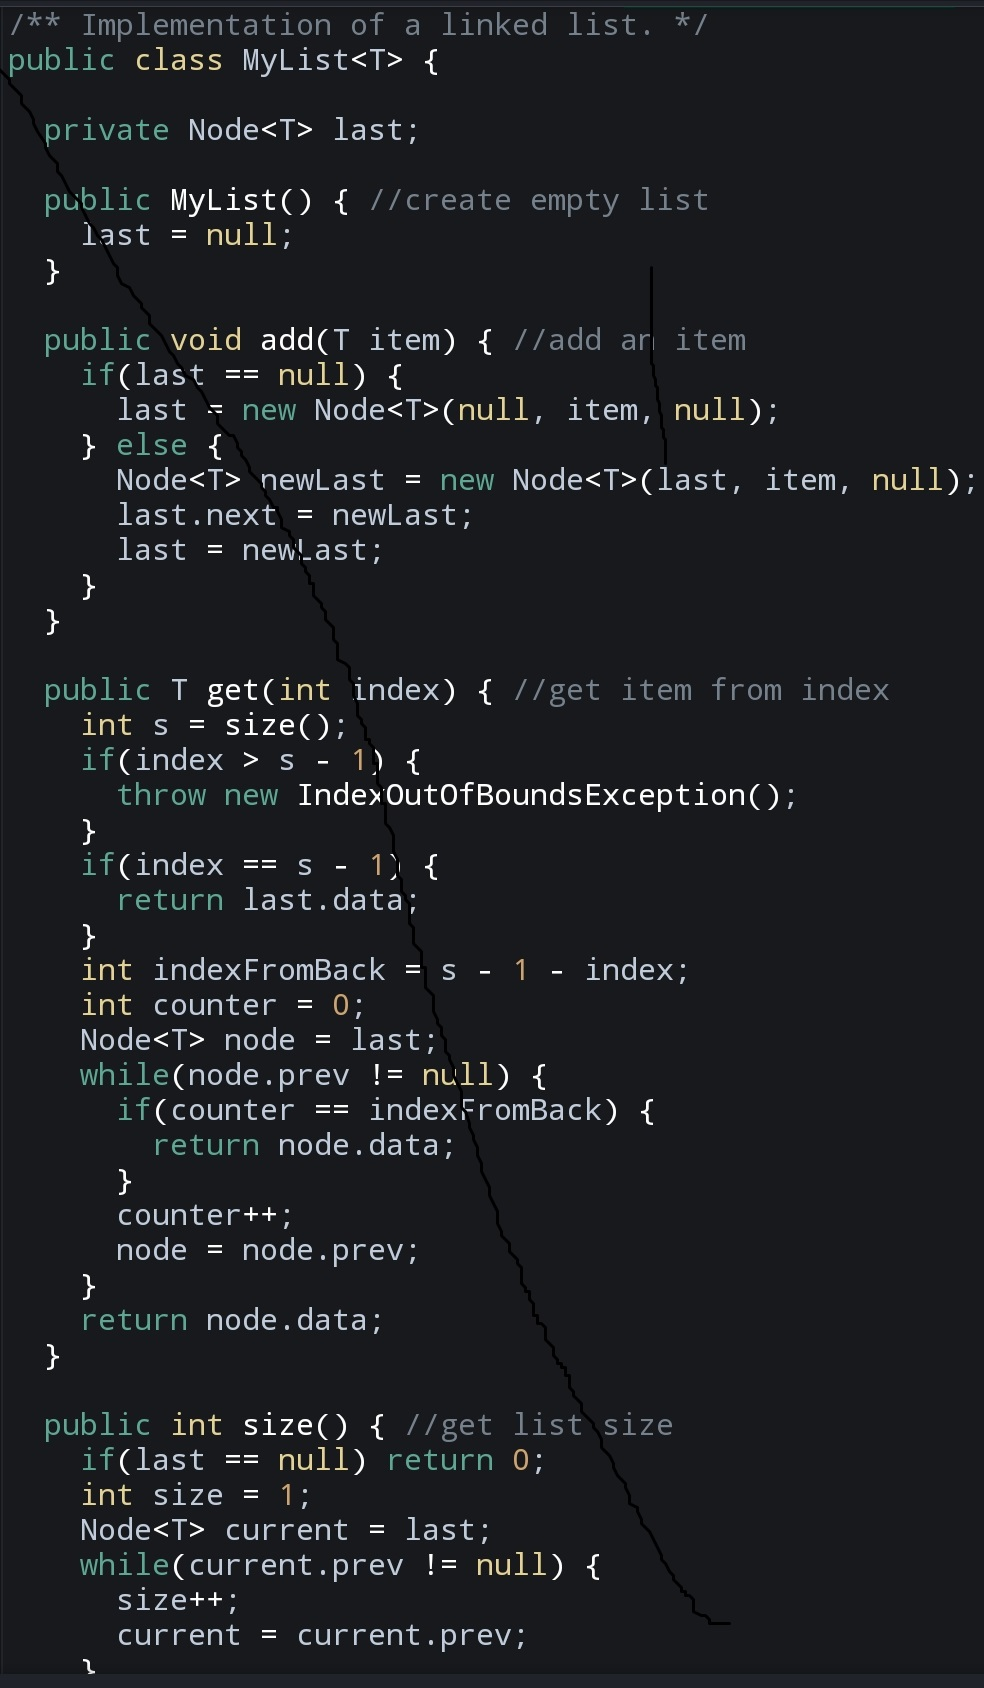
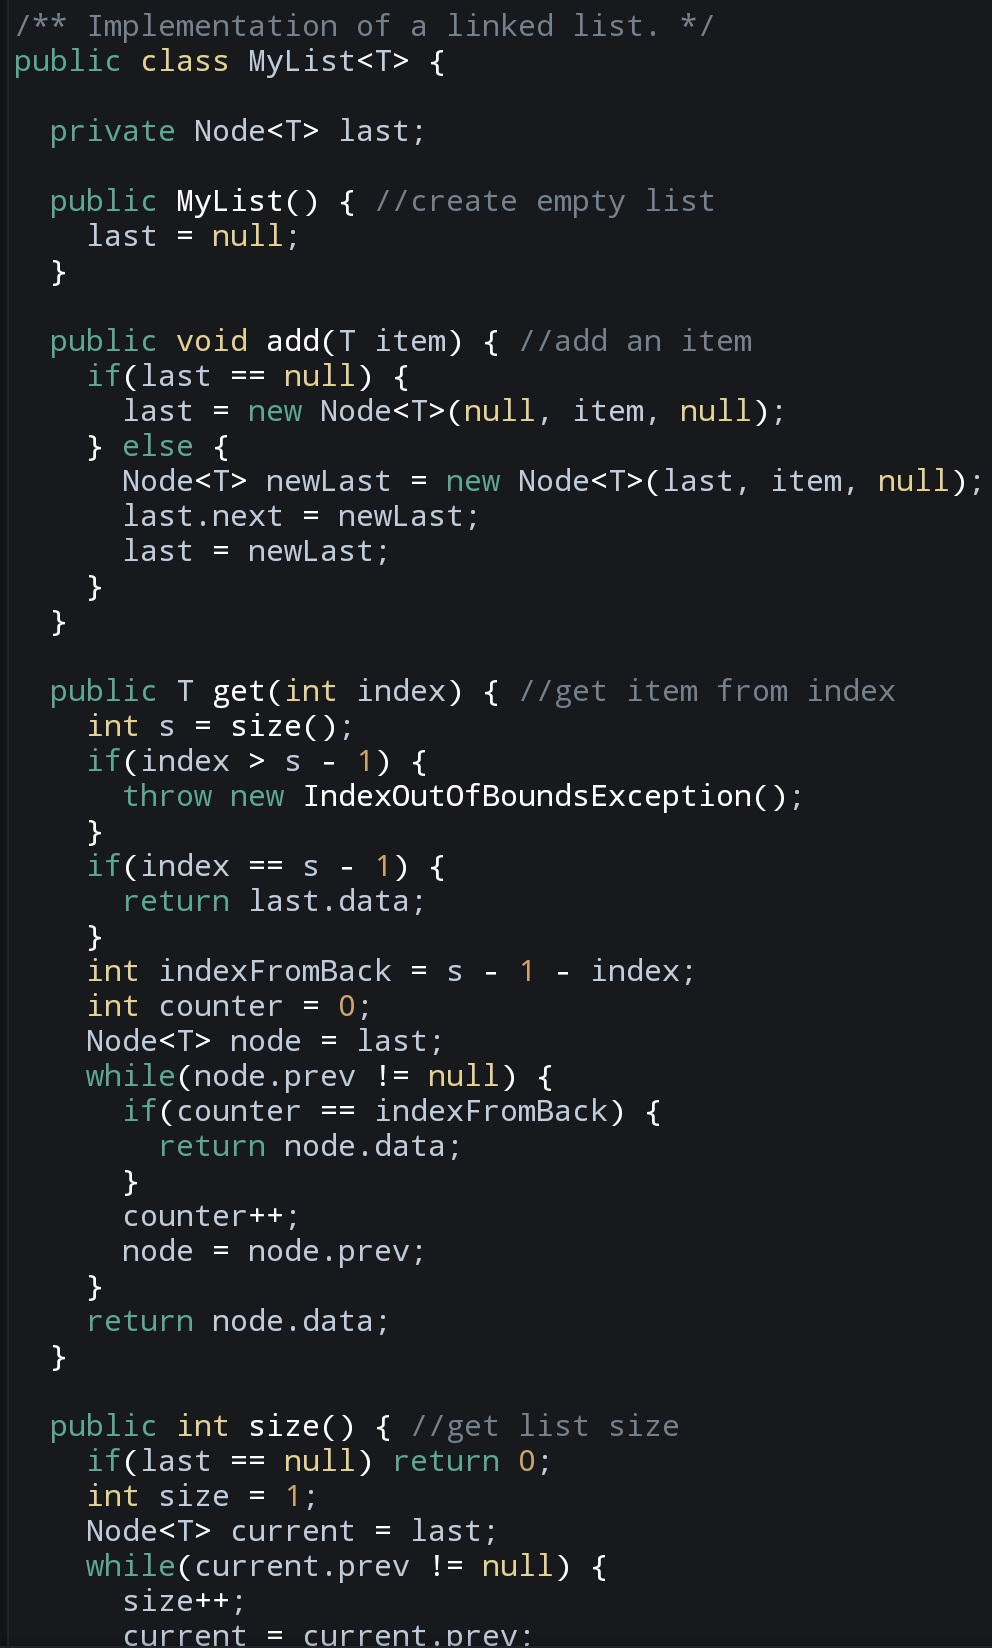
Fixed bugs that were introduced when I changed to the asset system. Fixed a background image which had a random black line on it.

diff --git a/learnjava/src/main/java/com/gaspar/learnjava/database/LearnJavaDatabase.java b/learnjava/src/main/java/com/gaspar/learnjava/database/LearnJavaDatabase.java
@@ -1,6 +1,7 @@
 package com.gaspar.learnjava.database;
 
 import android.content.Context;
+import android.content.res.AssetManager;
 
 import androidx.annotation.NonNull;
 import androidx.annotation.WorkerThread;
@@ -8,13 +9,20 @@ import androidx.room.Database;
 import androidx.room.Room;
 import androidx.room.RoomDatabase;
 
-import com.gaspar.learnjava.R;
 import com.gaspar.learnjava.curriculum.Chapter;
 import com.gaspar.learnjava.curriculum.Course;
 import com.gaspar.learnjava.curriculum.Exam;
 import com.gaspar.learnjava.curriculum.Task;
+import com.gaspar.learnjava.parsers.CourseParser;
+import com.gaspar.learnjava.parsers.ExamParser;
+import com.gaspar.learnjava.parsers.TaskParser;
 
-import java.lang.reflect.Field;
+import org.xmlpull.v1.XmlPullParser;
+import org.xmlpull.v1.XmlPullParserException;
+import org.xmlpull.v1.XmlPullParserFactory;
+
+import java.io.IOException;
+import java.io.InputStream;
 import java.util.ArrayList;
 import java.util.Collections;
 import java.util.List;
@@ -53,34 +61,66 @@ public abstract class LearnJavaDatabase extends RoomDatabase {
     public abstract ExamDao getExamDao();
 
     /**
-     * Goes through all XML resource files and checks if the curriculum elements (course, task, ...)
+     * Goes through all asset files and checks if the curriculum elements (course, task, ...)
      * are added to the database or not. If not it adds them.
      */
     public static void validateDatabase(@NonNull Context context) {
-        final Field[] fields = R.xml.class.getDeclaredFields();
-        List<Integer> courseIdList = new ArrayList<>();
-        for (Field field : fields) {
-            final int xmlResourceID;
-            try {
-                xmlResourceID = field.getInt(R.xml.class);
-            } catch (Exception e) {
-                throw new RuntimeException();
+        List<Integer> idList = new ArrayList<>();
+        final AssetManager manager = context.getAssets(); //get access to assets
+        try {
+            final XmlPullParserFactory factory = XmlPullParserFactory.newInstance();
+            factory.setNamespaceAware(true);
+            //list all courses
+            final String[] coursePaths = manager.list("courses"); //list course XML-s in the courses asset folder
+            for(String relCoursePath: coursePaths) { //check every course XML for the correct id
+                String coursePath = "courses/" + relCoursePath;
+                try(final InputStream is = manager.open(coursePath)) { //open course XML as input stream
+                    final XmlPullParser parser = factory.newPullParser();
+                    parser.setInput(is, "UTF-8");
+                    final Course course = CourseParser.getInstance().parseCourse(parser, context); //parse this course
+                    idList.add(course.getId());
+                }
             }
-            String resourceName = context.getResources().getResourceEntryName(xmlResourceID);
-            if(resourceName.startsWith("course_")) {
-                courseIdList.add(parseId(resourceName)); //courses must be sorted by id before validating, see below
-            } else if(resourceName.startsWith("chapter_")) {
-                Chapter.validateChapterStatus(parseId(resourceName), context);
-            } else if(resourceName.startsWith("task_")) {
-                Task.validateTaskStatus(parseId(resourceName), context);
-            } else if(resourceName.startsWith("exam_")) {
-                Exam.validateExamStatus(parseId(resourceName), context);
-            } //other resource like guide is not tracked in the database
-        }
-        /* important, as the one with the smallest id is the first course, and that must get unlocked by default. */
-        Collections.sort(courseIdList);
-        for(int courseId: courseIdList) {
-            Course.validateCourseStatus(courseId, context);
+            /* important, as the one with the smallest id is the first course, and that must get unlocked by default. */
+            Collections.sort(idList);
+            for(int courseId: idList) {
+                Course.validateCourseStatus(courseId, context);
+            }
+            //list and validate all chapters
+            final String[] chapterPaths = manager.list("chapters");
+            for(String relChapterPath: chapterPaths) { //check every chapter XML for the correct id
+                String chapterPath = "chapters/" + relChapterPath;
+                try(final InputStream is = manager.open(chapterPath)) { //open chapter XML as input stream
+                    final XmlPullParser parser = factory.newPullParser();
+                    parser.setInput(is, "UTF-8");
+                    final Chapter chapter = CourseParser.getInstance().parseChapterData(parser, false); //parse this chapter
+                    Chapter.validateChapterStatus(chapter.getId(), context); //validate
+                }
+            }
+            //list and validate tasks
+            final String[] taskPaths = manager.list("tasks");
+            for(String relTaskPath: taskPaths) { //check every task XML for the correct id
+                String taskPath = "tasks/" + relTaskPath;
+                try(final InputStream is = manager.open(taskPath)) { //open task XML as input stream
+                    final XmlPullParser parser = factory.newPullParser();
+                    parser.setInput(is, "UTF-8");
+                    final Task task = TaskParser.getInstance().parseTaskData(parser, false); //parse this chapter
+                    Task.validateTaskStatus(task.getId(), context); //validate
+                }
+            }
+            //list and validate exams
+            final String[] examPaths = manager.list("exams");
+            for(String relExamPath: examPaths) { //check every exam XML for the correct id
+                String examPath = "exams/" + relExamPath;
+                try(final InputStream is = manager.open(examPath)) { //open exam XML as input stream
+                    final XmlPullParser parser = factory.newPullParser();
+                    parser.setInput(is, "UTF-8");
+                    final Exam exam = ExamParser.getInstance().parseExamData(parser, false); //parse this exam
+                    Exam.validateExamStatus(exam.getId(), context); //validate
+                }
+            }
+        } catch (XmlPullParserException | IOException e) {
+            throw new RuntimeException("Failed to validate database: " + e.getClass().getSimpleName() + " - " + e.getMessage());
         }
     }
 
@@ -94,12 +134,6 @@ public abstract class LearnJavaDatabase extends RoomDatabase {
         database.getExamDao().deleteRecords();
         database.getTaskDao().deleteRecords();
         CourseStatus.initCourseCount(0, context); //also reset course counter variable
-    }
-
-    private static int parseId(String resourceName) throws IllegalArgumentException {
-        String[] parts = resourceName.split("_");
-        if(parts.length != 2) throw new IllegalArgumentException();
-        return Integer.parseInt(parts[1]);
     }
 
     /*

diff --git a/learnjava/src/main/java/com/gaspar/learnjava/parsers/CourseParser.java b/learnjava/src/main/java/com/gaspar/learnjava/parsers/CourseParser.java
@@ -75,6 +75,7 @@ public class CourseParser {
             throw new IOException("Failed to open course assets!");
         }
         Collections.sort(parsedCourses, courseComparator); //sort by id
+        if(parsedCourses.size() == 0) throw new RuntimeException("No courses found!");
         return parsedCourses;
     }
 
@@ -91,7 +92,7 @@ public class CourseParser {
      * @param context App context.
      * @return The parsed course object.
      */
-    private Course parseCourse(@NonNull final XmlPullParser parser, @NonNull Context context)
+    public Course parseCourse(@NonNull final XmlPullParser parser, @NonNull Context context)
             throws XmlPullParserException, IOException, NumberFormatException {
         List<Chapter> chapters = new ArrayList<>(); //these will be filled during XML parsing
         List<Task> tasks = new ArrayList<>();
@@ -172,7 +173,7 @@ public class CourseParser {
      * @return True only if the id inside matches.
      * @throws IOException If the file could not be opened.
      */
-    boolean matchingId(@NonNull String path, int id, final AssetManager manager, final XmlPullParserFactory factory)
+    public boolean matchingId(@NonNull String path, int id, final AssetManager manager, final XmlPullParserFactory factory)
             throws IOException, XmlPullParserException {
         XmlPullParser parser = factory.newPullParser();
         try(final InputStream is = manager.open(path)) { //open file
@@ -201,7 +202,7 @@ public class CourseParser {
      * @throws IOException If problem arises during XML parsing.
      * @throws RuntimeException If the chapter file is incorrect, such as no id or name.
      */
-    private Chapter parseChapterData(@NonNull XmlPullParser parser, boolean parseComponents)
+    public Chapter parseChapterData(@NonNull XmlPullParser parser, boolean parseComponents)
         throws RuntimeException, XmlPullParserException, IOException {
         int chapterId = NO_ID_FOUND;
         String chapterName = null;

diff --git a/learnjava/src/main/java/com/gaspar/learnjava/LearnJavaActivity.java b/learnjava/src/main/java/com/gaspar/learnjava/LearnJavaActivity.java
@@ -45,6 +45,9 @@ import com.google.android.material.navigation.NavigationView;
 import java.util.List;
 import java.util.Random;
 
+/**
+ * Starting activity of the app. Prompts the user to start or continue the curriculum.
+ */
 public class LearnJavaActivity extends ThemedActivity
         implements NavigationView.OnNavigationItemSelectedListener {
 
@@ -99,14 +102,23 @@ public class LearnJavaActivity extends ThemedActivity
             }
             ThemeUtils.initSelectedTheme(this); //initialize themes
             ClipSyncActivity.initClipSync(this, findViewById(R.id.learnJavaMainView)); //initialize clip sync
+            showStartContinueComponent();
         });
         setUpUI(); //init toolbar and drawer here
+        onCreate = true;
     }
+
+    private boolean onCreate;
 
     @Override
     protected void onResume() {
         super.onResume();
-        showStartContinueComponent();
+        if(!onCreate) { //if we are returning to this activity, update the component
+            showStartContinueComponent();
+        } else {
+            //we are launching this activity. component will be updated when all initialization completed
+            onCreate = false;
+        }
         RelativeLayout backgroundLayout = findViewById(R.id.backgroundImagesLayout); //show another background image
         backgroundLayout.getChildAt(visibleCodeIndex).setVisibility(View.GONE);
         visibleCodeIndex = new Random().nextInt(backgroundLayout.getChildCount()); //start with random image

diff --git a/learnjava/src/main/java/com/gaspar/learnjava/parsers/ExamParser.java b/learnjava/src/main/java/com/gaspar/learnjava/parsers/ExamParser.java
@@ -95,7 +95,7 @@ public class ExamParser {
      * @throws IOException When the XML could not be parsed.
      * @throws RuntimeException If the exam object is incomplete, for example no name or id.
      */
-    private Exam parseExamData(@NonNull XmlPullParser parser, boolean parseQuestions)
+    public Exam parseExamData(@NonNull XmlPullParser parser, boolean parseQuestions)
         throws XmlPullParserException, IOException, RuntimeException {
         int examId = CourseParser.NO_ID_FOUND;
         int questionAmount = CourseParser.NO_ID_FOUND;

diff --git a/learnjava/src/main/java/com/gaspar/learnjava/CoursesActivity.java b/learnjava/src/main/java/com/gaspar/learnjava/CoursesActivity.java
@@ -238,11 +238,11 @@ public class CoursesActivity extends ThemedActivity implements NavigationView.On
         new ShowCongratulationTask().execute(this);
     }
 
-    public static List<Course> getParsedCourses() {
+    public static synchronized List<Course> getParsedCourses() {
         return PARSED_COURSES;
     }
 
-    public static void setParsedCourses(List<Course> parsedCourses) {
+    public static synchronized void setParsedCourses(List<Course> parsedCourses) {
         PARSED_COURSES = parsedCourses;
     }
 

diff --git a/learnjava/src/main/java/com/gaspar/learnjava/parsers/TaskParser.java b/learnjava/src/main/java/com/gaspar/learnjava/parsers/TaskParser.java
@@ -82,7 +82,7 @@ public class TaskParser {
      * @throws XmlPullParserException When the XML could not be parsed.
      * @throws IOException When the XML could not be parsed.
      */
-    private Task parseTaskData(@NonNull final XmlPullParser parser, boolean parseComponents)
+    public Task parseTaskData(@NonNull final XmlPullParser parser, boolean parseComponents)
         throws RuntimeException, XmlPullParserException, IOException {
         int taskId = CourseParser.NO_ID_FOUND;
         String taskName = null;

diff --git a/learnjava/src/main/java/com/gaspar/learnjava/asynctask/InitStarterViewTask.java b/learnjava/src/main/java/com/gaspar/learnjava/asynctask/InitStarterViewTask.java
@@ -27,9 +27,9 @@ public class InitStarterViewTask extends AsyncTask<Object, Void, LearnJavaActivi
 
     private static final int NO_STARTED_CHAPTER = Integer.MIN_VALUE;
 
-    private int chapterId;
+    private final int chapterId;
 
-    private boolean started;
+    private final boolean started;
 
     private boolean showOpenDrawerForExamPrompt;
 

diff --git a/learnjava/src/main/java/com/gaspar/learnjava/curriculum/Component.java b/learnjava/src/main/java/com/gaspar/learnjava/curriculum/Component.java
@@ -61,7 +61,7 @@ public class Component implements Serializable {
      * Type of the component.
      */
     @ComponentType
-    private int type;
+    private final int type;
 
     /**
      * The optional component title. Not all kinds of components can have titles.
